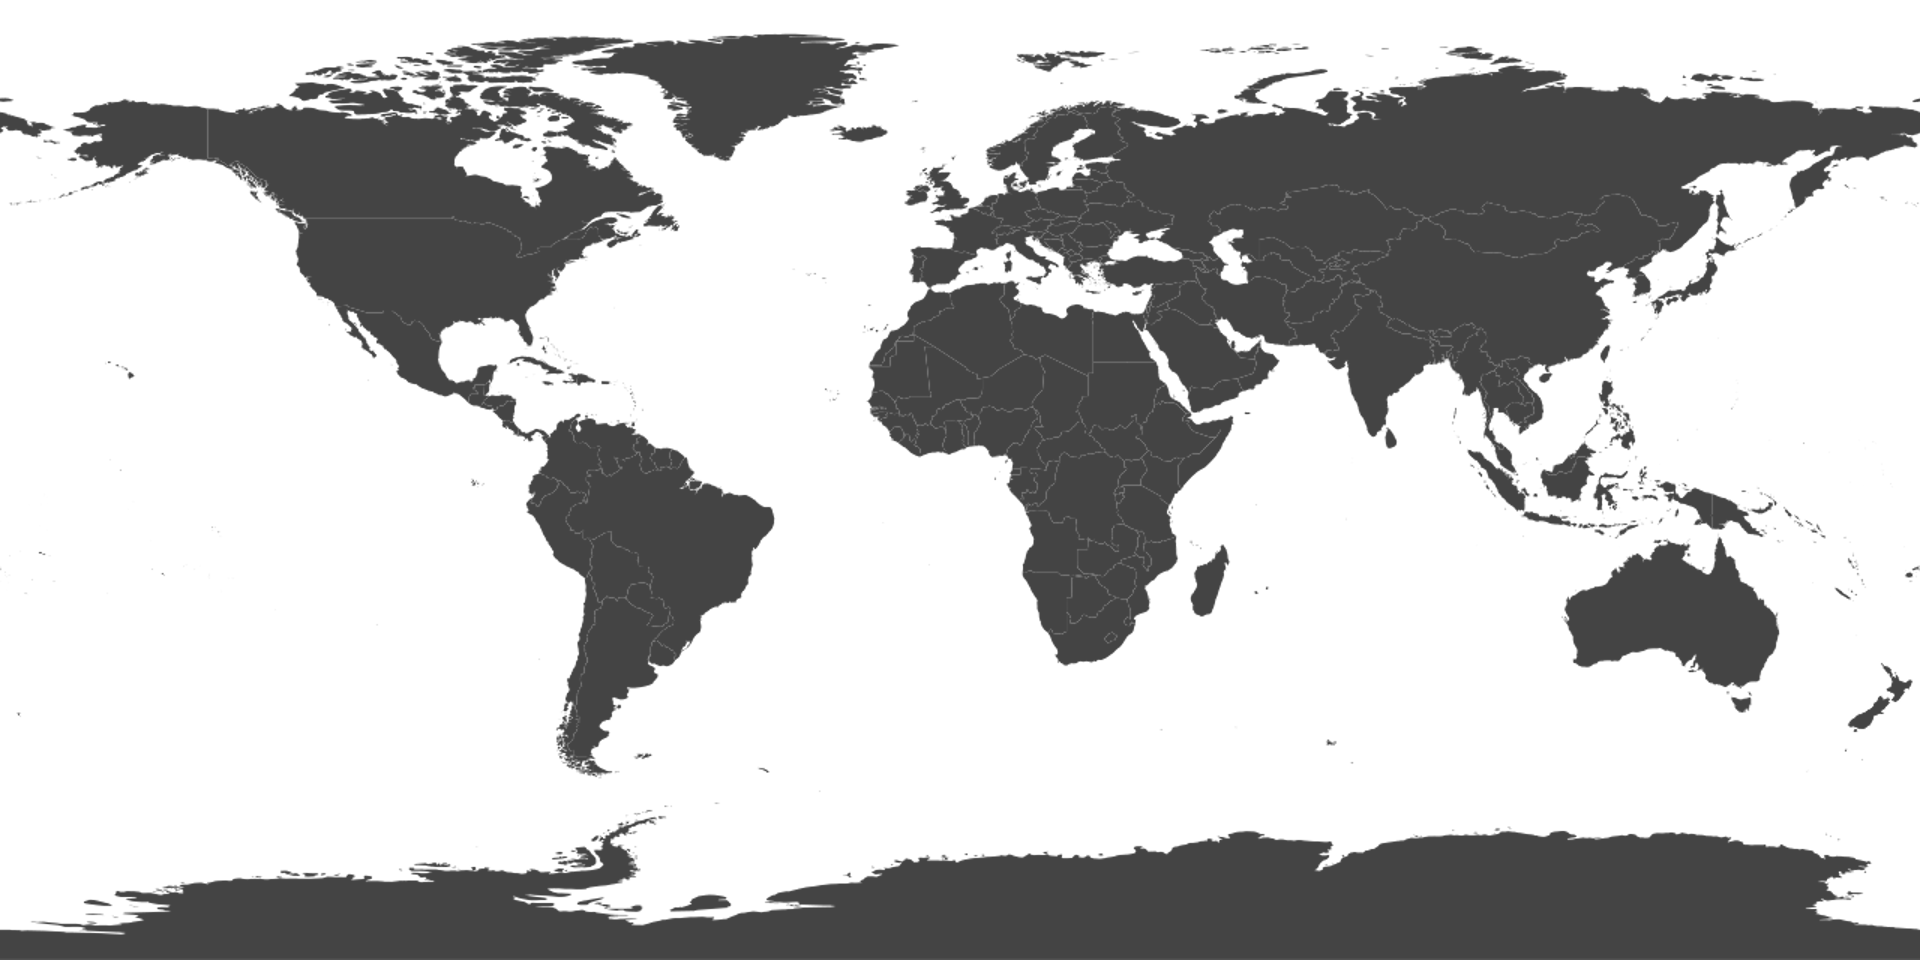
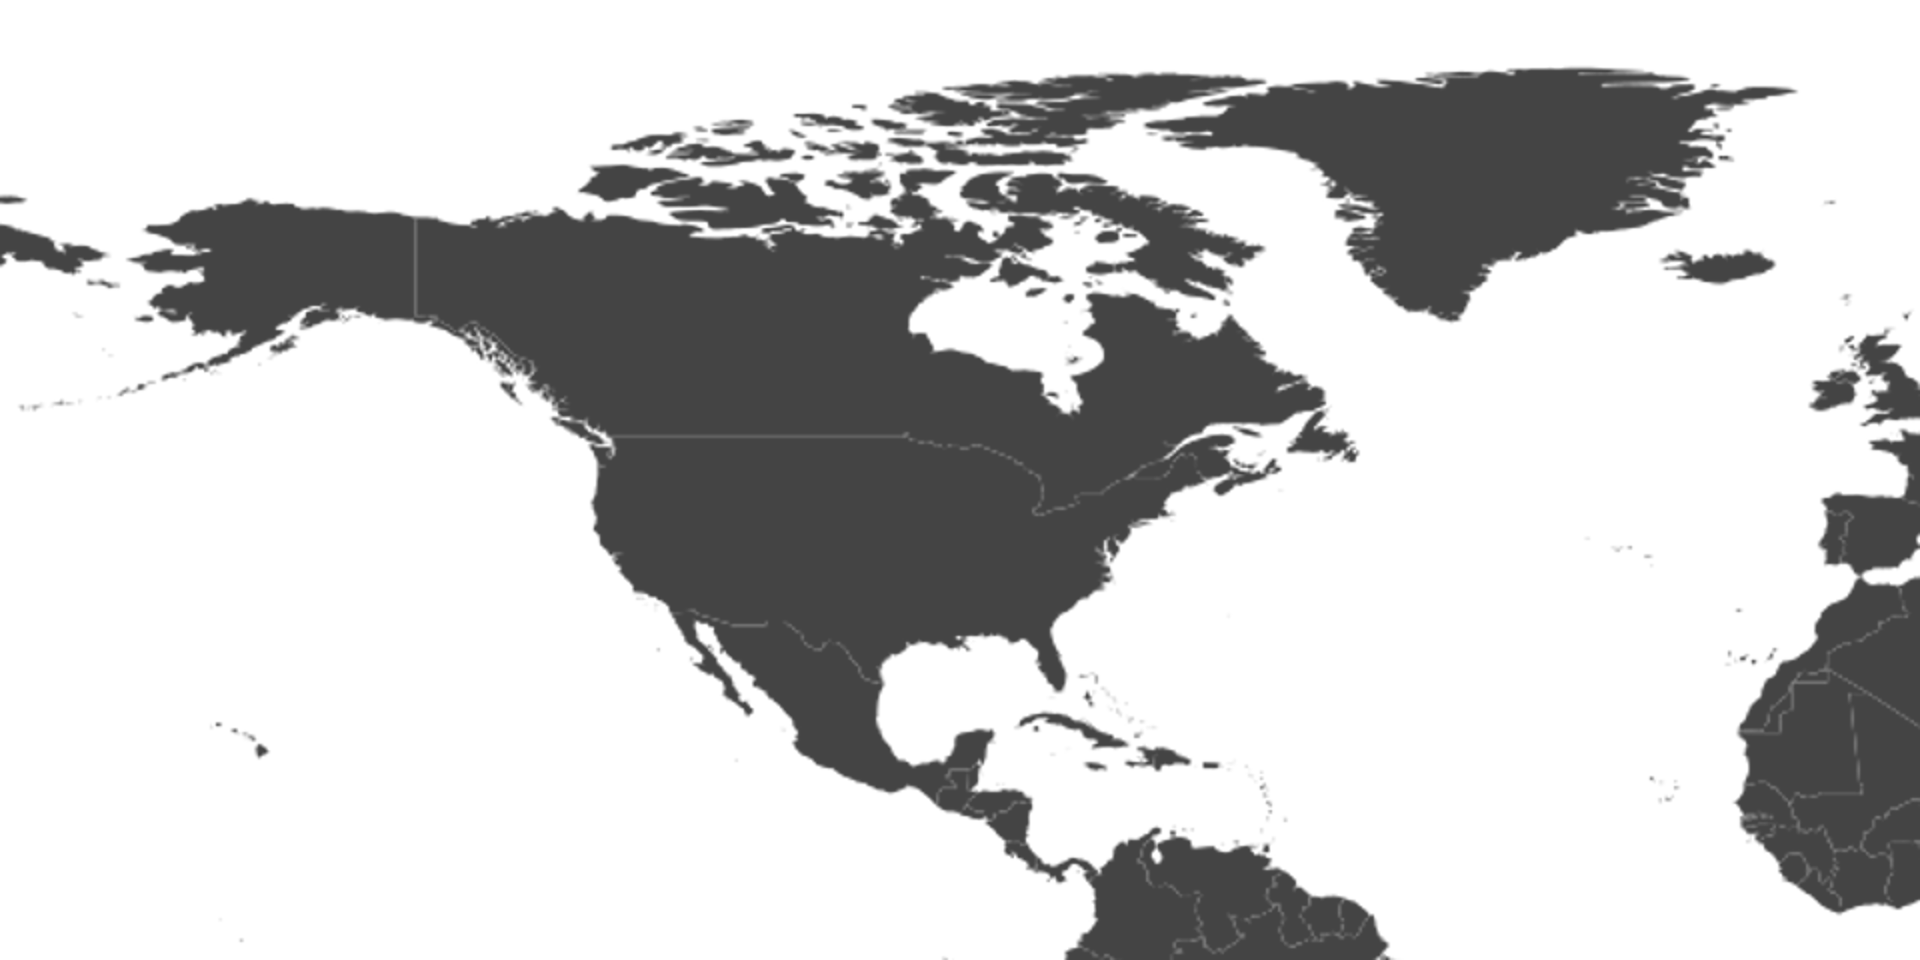
US-Centric

diff --git a/mqtt_locator.py b/mqtt_locator.py
@@ -54,17 +54,27 @@ class Map(object):
         pygame.mouse.set_visible(False)
         self.pings = []
         self.config = config
+
         self.client = mqtt.Client()
         self.client.on_connect = self.on_connect
         self.client.on_message = self.on_message
         self.client.connect(self.config["host"],
                             int(self.config["port"]),
                             int(self.config["keepalive"]))
+
         self.background = pygame.image.load("map.PNG")
-        self.x_shift = self.background.get_width() / 2.0
-        self.y_shift = self.background.get_height() / 2.0
-        self.x_scale = self.x_shift / 180.0
-        self.y_scale = self.y_shift /  90.0
+
+        self.min_lat = float(self.config["minlat"])
+        self.max_lat = float(self.config["maxlat"])
+        self.min_long = float(self.config["minlong"])
+        self.max_long = float(self.config["maxlong"])
+
+        lat_range = (self.max_lat+180.0) - (self.min_lat+180.0)
+        long_range = (self.max_long+90.0) - (self.min_long+90.0)
+        self.x_scale = self.background.get_width() / long_range
+        self.y_scale = self.background.get_height() /  lat_range
+        self.x_shift = ((-self.min_long) * self.x_scale)
+        self.y_shift = ((-self.min_lat) * self.y_scale) + self.background.get_height()
         self.zips = None
         if config["fullscreen"].lower() != 'true':
             self.win = pygame.display.set_mode(
@@ -118,7 +128,7 @@ class Map(object):
     def project(self, lon, lat):
         """Convert lat/long to pixel x/y"""
         x_coord = (self.x_scale * lon) + self.x_shift
-        y_coord = self.y_shift - (self.y_scale * lat)
+        y_coord = -(self.y_scale * lat) + self.y_shift
         return (int(x_coord), int(y_coord))
 
     def quit(self):
